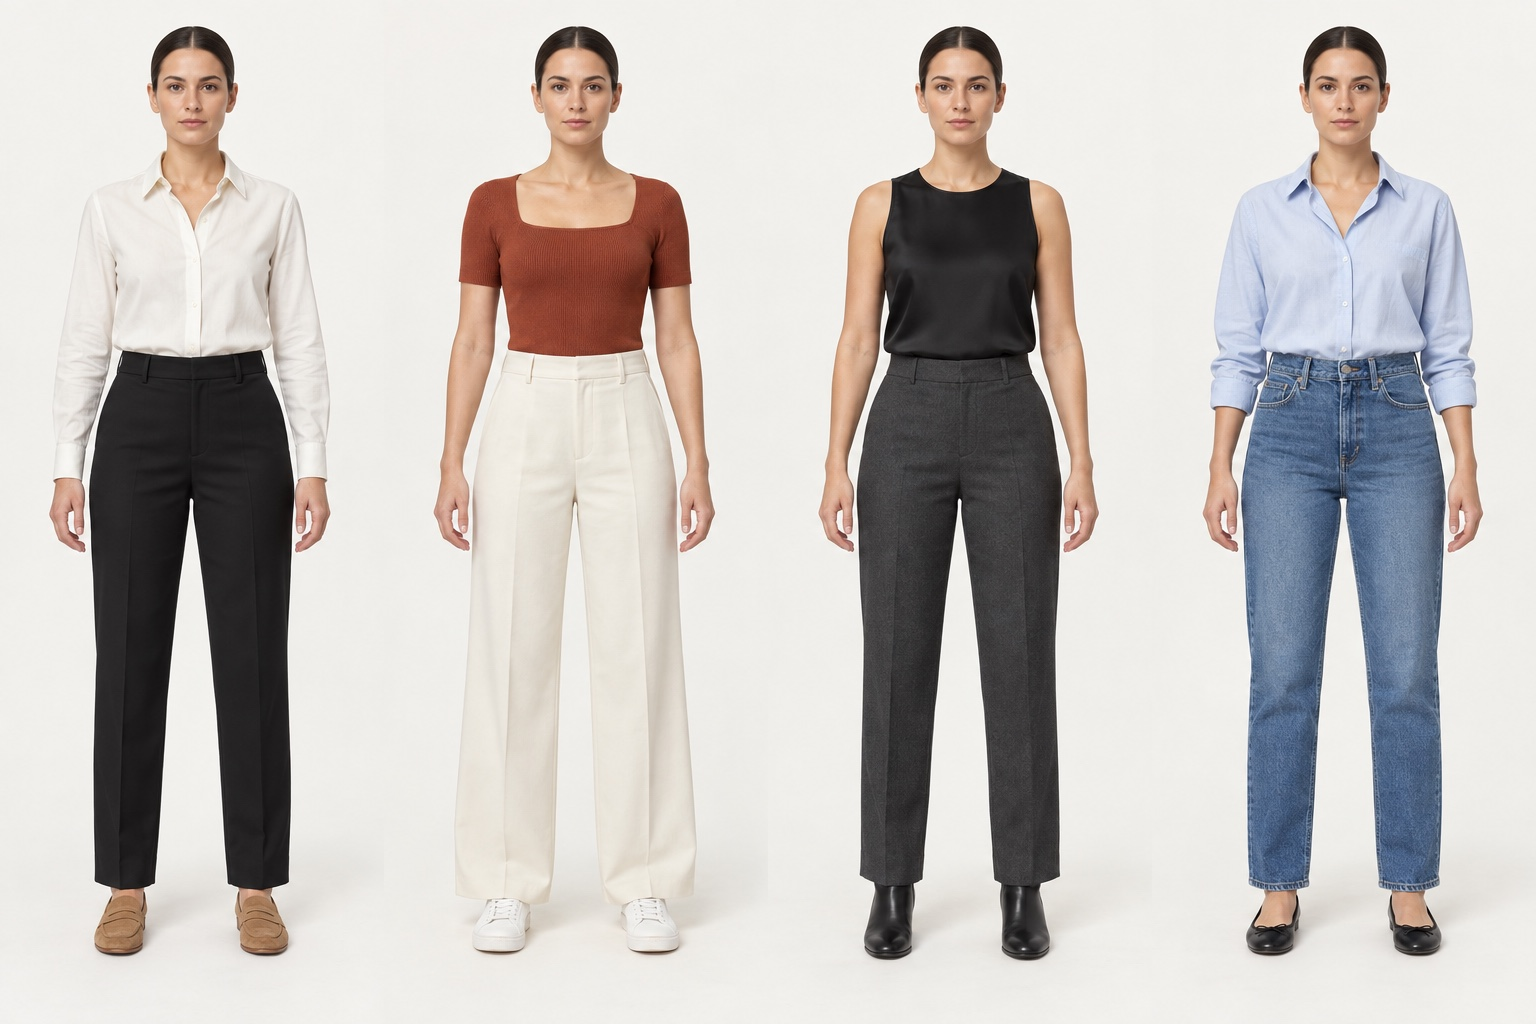
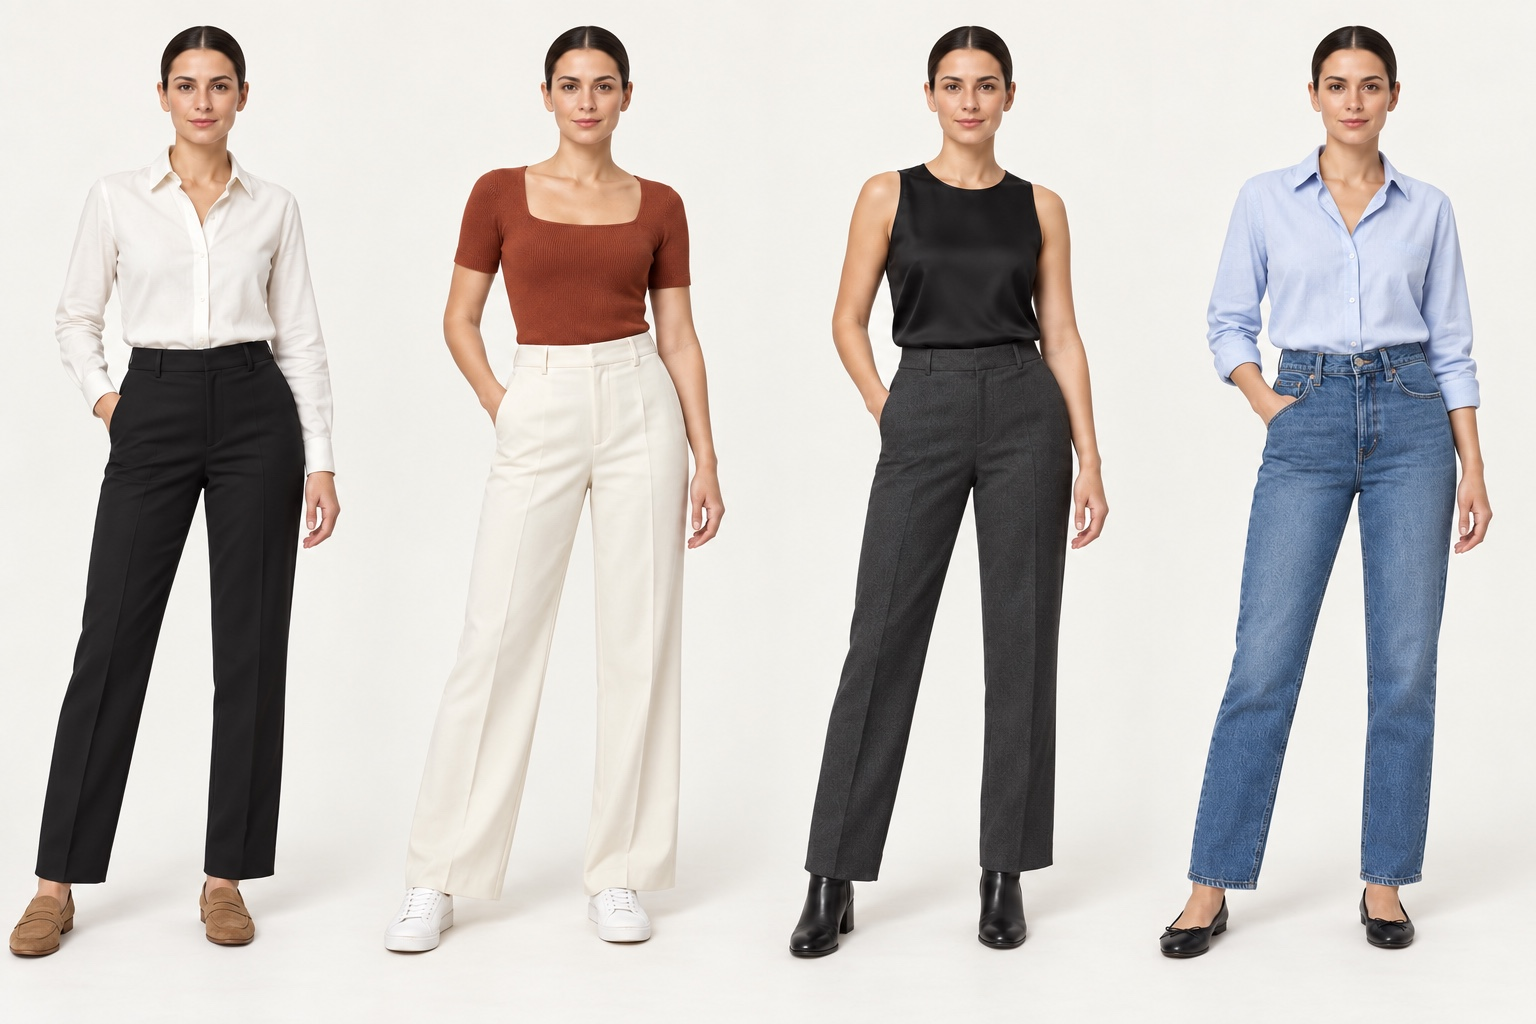
kj

diff --git a/app.js b/app.js
@@ -4565,7 +4565,8 @@ function instantAvatarMarkup() {
   const worn = [...base, ...['Outerwear', ...instantAccessoryRoles].filter(role => instantWardrobeIndex(role) >= 0)];
   const jacket = instantWardrobeIndex('Outerwear');
   const chips = dress >= 0 ? ['Dress', 'Shoes'] : ['Top', 'Bottom', 'Shoes'];
-  return `<div class="instant-avatar" role="img" aria-label="Outfit preview: ${worn.map(role => instantWardrobe[role][instantWardrobeIndex(role)]).join(', ')}">
+  const poseSheet = canvasState.poseSet === 1 ? 'images/studio-avatar-poses.jpg' : 'images/studio-avatar-wardrobe.jpg';
+  return `<div class="instant-avatar" style="--avatar-sheet:url('${poseSheet}')" role="img" aria-label="Outfit preview: ${worn.map(role => instantWardrobe[role][instantWardrobeIndex(role)]).join(', ')}">
     ${base.map(role => `<span class="instant-avatar-layer layer-${role.toLowerCase()}" style="--variant:${instantWardrobeIndex(role)}"></span>`).join('')}
     ${jacket >= 0 ? `<span class="instant-jacket jacket-left" style="--variant:${jacket}"></span><span class="instant-jacket jacket-right" style="--variant:${jacket}"></span>` : ''}
     ${instantAccessoryRoles.filter(role => instantWardrobeIndex(role) >= 0).map(role => role === 'Earrings' ? ['left', 'right'].map(side => `<span class="instant-wearable wearable-earrings earring-${side}">${instantWardrobeArt(role, instantWardrobeIndex(role))}</span>`).join('') : `<span class="instant-wearable wearable-${role.toLowerCase()}">${instantWardrobeArt(role, instantWardrobeIndex(role))}</span>`).join('')}
@@ -4600,7 +4601,19 @@ function refreshInstantWardrobe() {
     row.querySelector('.instant-row-choice').textContent = selected < 0 ? (role === 'Dress' ? 'Wear separates' : 'None') : instantWardrobe[role][selected];
   });
 }
-function chooseInstantPiece(role, index) {
+function animateInstantPose(role, index) {
+  const stage = app.querySelector('.instant-avatar-stage');
+  if (!stage) return;
+  const pose = `${role.toLowerCase()}-${Math.max(0, index) % 4}`;
+  stage.dataset.pose = pose;
+  stage.classList.remove('is-posing');
+  // Force a new animation cycle so repeated taps still feel responsive.
+  void stage.offsetWidth;
+  stage.classList.add('is-posing');
+  clearTimeout(stage._poseTimer);
+  stage._poseTimer = setTimeout(() => stage.classList.remove('is-posing'), 620);
+}
+function chooseInstantPiece(role, index, center = true) {
   if (!instantWardrobe[role] || (index === -1 ? !instantOptionalRoles.includes(role) : !instantWardrobe[role][index])) return;
   const wasDress = instantWardrobeIndex('Dress') >= 0;
   if (role === 'Dress' && index >= 0) {
@@ -4610,14 +4623,54 @@ function chooseInstantPiece(role, index) {
     }
     canvasState.items = canvasState.items.filter(x => !['Top', 'Bottom'].includes(x.role));
   } else if (wasDress && (['Top', 'Bottom'].includes(role) || (role === 'Dress' && index < 0))) restoreInstantSeparates();
+  // Alternate complete model photography on every choice, including accessories.
+  canvasState.poseSet = canvasState.poseSet === 1 ? 0 : 1;
   setInstantPiece(role, index);
   persist();
   refreshInstantWardrobe();
-  const row = app.querySelector(`[data-instant-role="${role}"]`), rail = row.querySelector('.instant-rail');
-  const selected = rail.querySelector(`[data-index="${index}"]`);
-  if (selected) rail.scrollTo({left:selected.offsetLeft - rail.offsetLeft - (rail.clientWidth - selected.clientWidth) / 2,
-    behavior:matchMedia('(prefers-reduced-motion: reduce)').matches ? 'instant' : 'smooth'});
+  animateInstantPose(role, index);
+  if (center) centerInstantRail(app.querySelector(`[data-instant-role="${role}"] .instant-rail`), true);
   app.querySelector('.instant-announcement').textContent = index < 0 ? `${instantLabels[role]} removed` : `${instantWardrobe[role][index]} selected`;
+}
+function centerInstantRail(rail, animate = false) {
+  const selected = rail?.querySelector('[aria-pressed="true"]');
+  if (!selected || !rail.clientWidth) return;
+  const itemRect = selected.getBoundingClientRect(), railRect = rail.getBoundingClientRect();
+  rail.scrollTo({left:rail.scrollLeft + itemRect.left + itemRect.width / 2 - railRect.left - rail.clientWidth / 2,
+    behavior:animate && !matchMedia('(prefers-reduced-motion: reduce)').matches ? 'smooth' : 'instant'});
+}
+let instantRailObserver;
+function installInstantRailScrolling() {
+  instantRailObserver?.disconnect();
+  const rails = app.querySelectorAll('.instant-rail');
+  if (!rails.length) return;
+  instantRailObserver = new ResizeObserver(entries => entries.forEach(({target}) => centerInstantRail(target)));
+  rails.forEach(rail => {
+    const role = rail.closest('[data-instant-role]').dataset.instantRole;
+    let timer, touching = false;
+    const settle = () => {
+      clearTimeout(timer);
+      if (touching || !rail.isConnected || !rail.clientWidth) return;
+      const middle = rail.getBoundingClientRect().left + rail.clientWidth / 2;
+      const selected = [...rail.querySelectorAll('.instant-option')].reduce((nearest, button) => {
+        const rect = button.getBoundingClientRect();
+        const distance = Math.abs(rect.left + rect.width / 2 - middle);
+        return !nearest || distance < nearest.distance ? {button, distance} : nearest;
+      }, null);
+      const index = Number(selected.button.dataset.index);
+      if (index !== instantWardrobeIndex(role)) chooseInstantPiece(role, index, false);
+    };
+    // Keep native touch momentum and vertical scrolling; debounce covers browsers without scrollend.
+    const queueSettle = () => { clearTimeout(timer); timer = setTimeout(settle, 160); };
+    rail.addEventListener('scroll', queueSettle, {passive:true});
+    rail.addEventListener('scrollend', settle, {passive:true});
+    rail.addEventListener('touchstart', () => { touching = true; clearTimeout(timer); }, {passive:true});
+    const release = event => { touching = event.touches.length > 0; if (!touching) queueSettle(); };
+    rail.addEventListener('touchend', release, {passive:true});
+    rail.addEventListener('touchcancel', release, {passive:true});
+    centerInstantRail(rail);
+    instantRailObserver.observe(rail);
+  });
 }
 function instantRailKey(event, role) {
   if (!['ArrowLeft', 'ArrowRight', 'Home', 'End'].includes(event.key)) return;
@@ -4647,7 +4700,7 @@ function instantStudio() {
   return `<section class="screen studio-instant"><div class="content no-nav instant-content">
     <header class="instant-header"><button class="instant-icon-button" aria-label="Back" onclick="backScreen()">${icon('back')}</button><div><p>STYLE STUDIO</p><h2>${escapeMarkup(canvasState.title)}</h2></div><button class="instant-save" onclick="saveInstantLook()">Save draft</button></header>
     <div class="instant-avatar-stage">${instantAvatarMarkup()}</div>
-    <p class="instant-hint">Make it yours. Scroll for more pieces.</p>
+    <p class="instant-hint">Swipe sideways to try on · Scroll down for more</p>
     <section class="instant-wardrobe" aria-label="Choose your outfit">
     <div class="instant-dress-context" ${instantWardrobeIndex('Dress') < 0 ? 'hidden' : ''}><span>One-piece Look · Dress + shoes</span><button onclick="chooseInstantPiece('Dress',-1)">Wear separates</button></div>
     ${Object.entries(instantWardrobe).map(([role,names]) => instantWardrobeRow(role,names)).join('')}
@@ -4843,6 +4896,7 @@ function render() {
   decorateVisualSearchEntries();
   decorateWishlistSurfaces();
   ensureAppNavigation();
+  installInstantRailScrolling();
   mountWishlistDialog();
   window.lucide?.createIcons({ attrs: { "stroke-width": 1.5 } });
   installLiquidNav(previousNavLens);

diff --git a/styles.css b/styles.css
@@ -12377,7 +12377,7 @@ body {
 .instant-icon-button .icon { width: 20px; height: 20px; }
 .instant-avatar-stage { display: flex; justify-content: center; height: 300px; margin: 8px 0 0; overflow: hidden; }
 .instant-avatar { position: relative; height: 100%; aspect-ratio: 384 / 1024; isolation: isolate; }
-.instant-avatar-layer { position: absolute; inset: 0; background: url('images/studio-avatar-wardrobe.jpg') no-repeat; background-size: 400% 100%; background-position: calc(var(--variant) * 100% / 3) 0; }
+.instant-avatar-layer { position: absolute; inset: 0; background-image: var(--avatar-sheet, url('images/studio-avatar-wardrobe.jpg')); background-repeat: no-repeat; background-size: 400% 100%; background-position: calc(var(--variant) * 100% / 3) 0; }
 .instant-avatar .layer-bottom { clip-path: inset(34.6% 0 12.8%); }
 .instant-avatar .layer-shoes { clip-path: inset(87.2% 0 0); }
 .instant-avatar .layer-top { clip-path: polygon(0 0,100% 0,100% 55%,77% 55%,77% 34.6%,23% 34.6%,23% 55%,0 55%); }
@@ -12387,7 +12387,7 @@ body {
 .instant-row-heading { display: flex; justify-content: space-between; align-items: baseline; gap: 8px; }
 .instant-row-heading h3 { margin: 0; font-size: 11px; font-weight: 600; }
 .instant-row-choice { font-size: 9px; color: #77736f; }
-.instant-rail { position: relative; display: flex; gap: 14px; overflow-x: auto; overscroll-behavior-x: contain; scroll-snap-type: x proximity; scrollbar-width: none; padding: 5px 2px 4px; }
+.instant-rail { position: relative; display: flex; gap: 14px; overflow-x: auto; overscroll-behavior-x: contain; scroll-snap-type: x mandatory; scrollbar-width: none; padding: 5px max(0px, calc(50% - 40px)) 4px; }
 .instant-rail::-webkit-scrollbar { display: none; }
 .instant-option { position: relative; flex: 0 0 64px; margin-inline: 8px; display: grid; place-items: center; height: 64px; padding: 3px; border: 1px solid transparent; border-radius: 50%; background: transparent; opacity: .44; scroll-snap-align: center; touch-action: pan-x; }
 .instant-option[aria-pressed='true'] { opacity: 1; border-color: #9e978d; background: #ffffff70; }
@@ -12410,6 +12410,25 @@ body {
   .instant-option:active { transform: none; }
 }
 .instant-avatar-stage { position: relative; }
+.instant-avatar-stage.is-posing .instant-avatar { animation: instant-pose-neutral .62s cubic-bezier(.22,.8,.24,1); transform-origin: 50% 82%; }
+.instant-avatar-stage.is-posing[data-pose^="top-"] .instant-avatar { animation-name: instant-pose-top; }
+.instant-avatar-stage.is-posing[data-pose^="bottom-"] .instant-avatar { animation-name: instant-pose-bottom; }
+.instant-avatar-stage.is-posing[data-pose^="shoes-"] .instant-avatar { animation-name: instant-pose-shoes; }
+.instant-avatar-stage.is-posing[data-pose^="outerwear-"] .instant-avatar { animation-name: instant-pose-jacket; }
+.instant-avatar-stage.is-posing[data-pose^="dress-"] .instant-avatar { animation-name: instant-pose-dress; }
+.instant-avatar-stage.is-posing[data-pose^="glasses-"] .instant-avatar,
+.instant-avatar-stage.is-posing[data-pose^="earrings-"] .instant-avatar,
+.instant-avatar-stage.is-posing[data-pose^="watch-"] .instant-avatar { animation-name: instant-pose-accessory; transform-origin: 50% 42%; }
+@keyframes instant-pose-neutral { 0% { transform: translateY(0) rotate(0); } 38% { transform: translateY(-3px) rotate(-.6deg); } 100% { transform: translateY(0) rotate(0); } }
+@keyframes instant-pose-top { 0% { transform: translateX(0) rotate(0); } 32% { transform: translateX(-4px) rotate(-1deg); } 100% { transform: translateX(0) rotate(0); } }
+@keyframes instant-pose-bottom { 0% { transform: translateY(0) rotate(0); } 34% { transform: translateY(3px) rotate(.7deg); } 100% { transform: translateY(0) rotate(0); } }
+@keyframes instant-pose-shoes { 0% { transform: translateX(0) rotate(0); } 35% { transform: translateX(4px) rotate(.8deg); } 100% { transform: translateX(0) rotate(0); } }
+@keyframes instant-pose-jacket { 0% { transform: translateX(0) rotate(0); } 30% { transform: translateX(-3px) rotate(-.8deg); } 60% { transform: translateX(2px) rotate(.5deg); } 100% { transform: translateX(0) rotate(0); } }
+@keyframes instant-pose-dress { 0% { transform: rotate(0) scale(1); } 38% { transform: rotate(-1deg) scale(1.015); } 100% { transform: rotate(0) scale(1); } }
+@keyframes instant-pose-accessory { 0% { transform: rotate(0) translateY(0); } 30% { transform: rotate(1.2deg) translateY(-2px); } 100% { transform: rotate(0) translateY(0); } }
+@media (prefers-reduced-motion: reduce) {
+  .instant-avatar-stage.is-posing .instant-avatar { animation: none; }
+}
 .instant-worn { position: absolute; display: grid; place-items: center; width: 44px; height: 48px; border: 1px solid #d8d4ce; border-radius: 6px; background: #f5f3ef; }
 .instant-worn .instant-piece-art { transform: scale(.8); }
 .instant-worn.worn-top { top: 24%; left: 8%; }
@@ -12431,7 +12450,7 @@ body {
 .instant-avatar .layer-dress { background-image: url('images/studio-dresses.jpg'); clip-path: inset(0 0 12.8%); }
 .instant-piece-art.art-dress { width: 36px; height: 53px; background-image: url('images/studio-dresses.jpg'); background-size: 144px 96px; background-position: calc(var(--variant) * -36px) -16px; }
 .instant-piece-art.art-outerwear { width: 48px; height: 48px; background-image: url('images/studio-jackets.png'); background-size: 192px 128px; background-position: calc(var(--variant) * -48px) -27px; mix-blend-mode: normal; }
-.instant-jacket { position: absolute; left: 6%; top: 5%; width: 88%; height: 55%; background: url('images/studio-jackets.png') no-repeat; background-size: 400% 100%; background-position: calc(var(--variant) * 100% / 3) 0; }
+.instant-jacket { position: absolute; left: 6%; top: 0; width: 88%; height: 100%; background: url('images/studio-jackets.png') no-repeat; background-size: 400% 100%; background-position: calc(var(--variant) * 100% / 3) 0; }
 .instant-jacket.jacket-left { clip-path: polygon(42% 21.5%,31% 24%,12% 28%,5% 39%,0 74%,12% 74%,20% 45%,21% 70%,31% 74%,42% 67%,45% 50%,43% 35%,41% 26%); }
 .instant-jacket.jacket-right { clip-path: polygon(59% 21.5%,69% 24%,87% 28%,96% 42%,100% 74%,87% 74%,79% 44%,79% 70%,69% 74%,59% 67%,55% 50%,57% 35%,60% 26%); }
 .instant-piece-art.art-glasses, .instant-piece-art.art-earrings, .instant-piece-art.art-watch { width: 52px; height: 52px; background-image: url('images/studio-accessories.png'); background-size: 300% 300%; background-position-x: calc(var(--variant) * 50%); mix-blend-mode: normal; }
